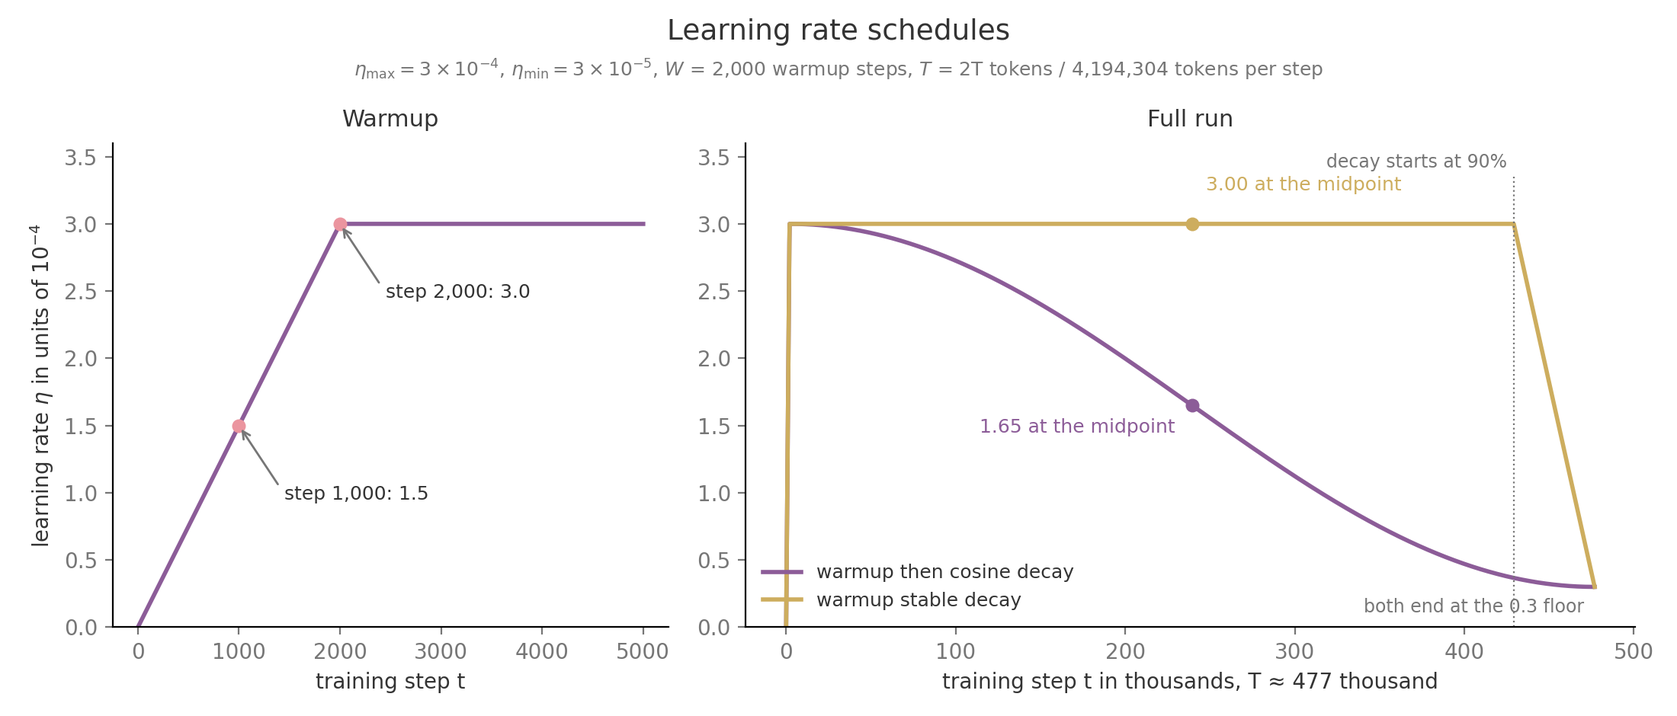
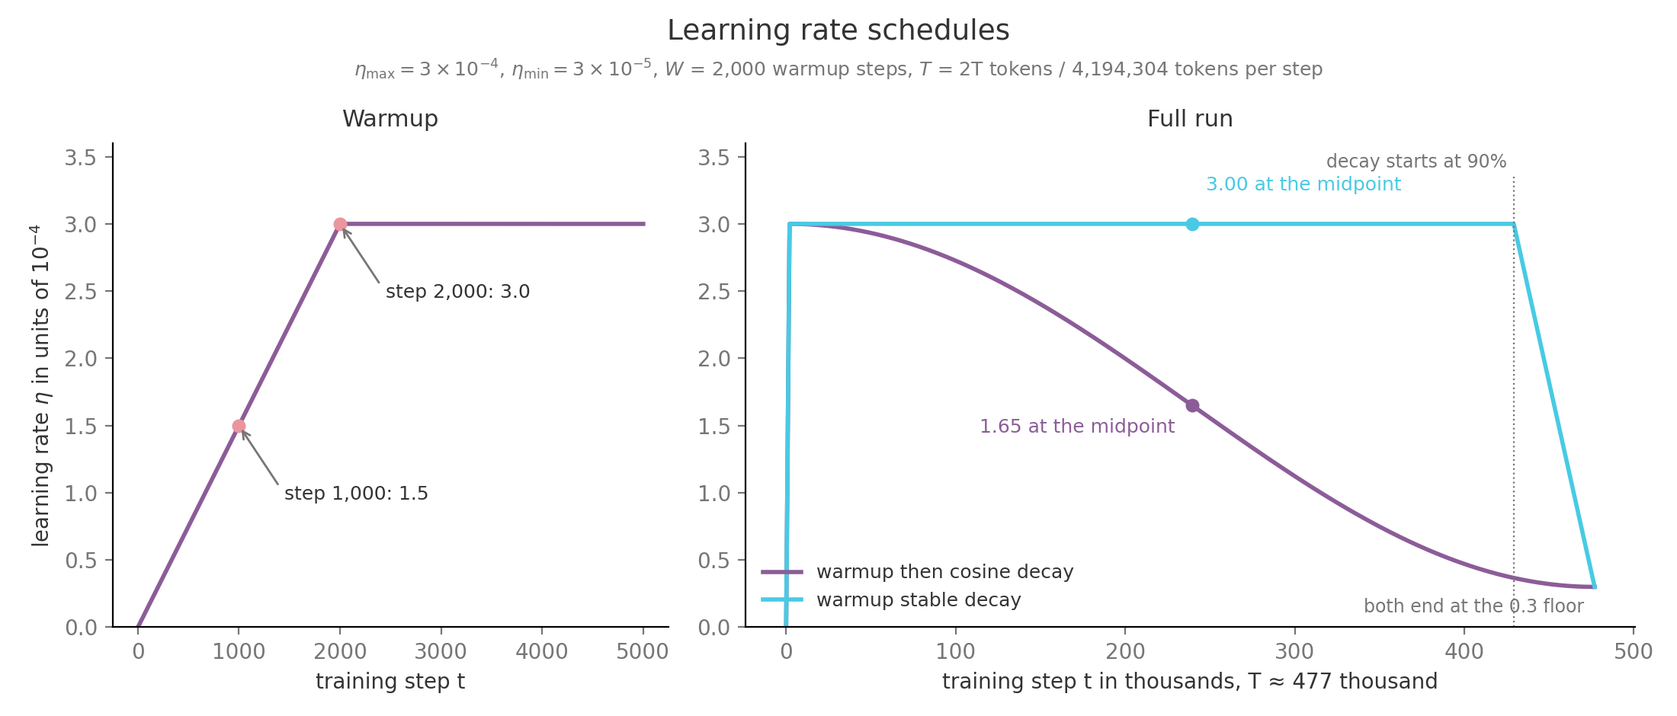
Refresh LLM Fundamentals openings, step notes and figure colors
- Rewrite chapter openings and roadmaps so they read naturally, without
  re-defining concepts from earlier chapters.
- Move paragraphs that explain a step-by-step example inside its card,
  and drop the step count from card headers.
- Replace the gold figure color with #48cae4 and recolor the decoder
  architecture diagram.
- Rename "Smoothing on a toy corpus" to "Smoothing" and remove the tie
  rule comment from the BPE algorithm.
- Update the landing slogan.

Changed region(s): [[0.4636, 0.3085, 0.9273, 0.3394], [0.7109, 0.2468, 0.8345, 0.2777], [0.4636, 0.833, 0.4945, 0.8638]]

diff --git a/src/styles/custom.css b/src/styles/custom.css
@@ -1228,3 +1228,8 @@ html .cm-scrolling {
     background: var(--sl-color-gray-4);
   }
 }
+
+/* Series overview: keep chapter names on one line in the Topics table. */
+:is(h2#topics, .sl-heading-wrapper:has(#topics)) + table td:first-child {
+  white-space: nowrap;
+}

diff --git a/src/content/docs/tutorials/llm-fundamentals/tokenization-and-embeddings.md b/src/content/docs/tutorials/llm-fundamentals/tokenization-and-embeddings.md
@@ -1,6 +1,6 @@
 ---
 title: "Tokenization"
-description: "The choice between characters, words, and subwords, and byte pair encoding run merge by merge alongside WordPiece and Unigram."
+description: "How byte pair encoding cuts text into tokens, and how each token becomes an embedding vector."
 sidebar:
   order: 2
   label: "Tokenization"
@@ -39,7 +39,7 @@ Training a BPE tokenizer starts with every word split into single characters. It
 
 Written as a procedure, BPE has two parts. Training reads a corpus once and learns the merge list. **Encoding**, turning new text into tokens with a finished tokenizer, uses that fixed list to turn any new text into token ids. Algorithm 1 is the training part. Its **base symbols** are the pieces every word starts as: characters in the example below, bytes in real tokenizers. A pair count adds up how often two symbols sit side by side, and a word that appears five times in the corpus counts five times.
 
-<figure class="cm-algo not-content"><figcaption class="cm-algo-head"><span class="cm-algo-tag">Algorithm 1</span><span class="cm-algo-name">BPE training</span></figcaption><div class="cm-algo-io"><div class="cm-algo-io-row"><span class="cm-algo-io-label">Input</span><span class="cm-algo-io-body"><span class="katex"><span class="katex-html" aria-hidden="true"><span class="base"><span class="strut" style="height:0.8889em;vertical-align:-0.1944em;"></span><span class="mord text"><span class="mord">a training corpus and a target vocabulary size</span></span></span></span></span></span></div><div class="cm-algo-io-row"><span class="cm-algo-io-label">Output</span><span class="cm-algo-io-body"><span class="katex"><span class="katex-html" aria-hidden="true"><span class="base"><span class="strut" style="height:0.8889em;vertical-align:-0.1944em;"></span><span class="mord text"><span class="mord">the base symbols and the merge list</span></span></span></span></span></span></div></div><ol class="cm-algo-lines"><li style="--indent:0"><span class="cm-algo-ln">1</span><span class="cm-algo-code"><span class="katex"><span class="katex-html" aria-hidden="true"><span class="base"><span class="strut" style="height:0.8889em;vertical-align:-0.1944em;"></span><span class="mord text"><span class="mord">split the corpus into words and count how often each word appears</span></span></span></span></span></span></li><li style="--indent:0"><span class="cm-algo-ln">2</span><span class="cm-algo-code"><span class="katex"><span class="katex-html" aria-hidden="true"><span class="base"><span class="strut" style="height:0.8889em;vertical-align:-0.1944em;"></span><span class="mord text"><span class="mord">break every word into base symbols, which form the starting vocabulary</span></span></span></span></span></span></li><li style="--indent:0"><span class="cm-algo-ln">3</span><span class="cm-algo-code"><span class="katex"><span class="katex-html" aria-hidden="true"><span class="base"><span class="strut" style="height:0.8889em;vertical-align:-0.1944em;"></span><span class="mord text"><span class="mord textbf">while </span></span><span class="mord text"><span class="mord">the vocabulary is smaller than the target size</span></span><span class="mord text"><span class="mord textbf"> do</span></span></span></span></span></span></li><li style="--indent:1"><span class="cm-algo-ln">4</span><span class="cm-algo-code"><span class="katex"><span class="katex-html" aria-hidden="true"><span class="base"><span class="strut" style="height:0.8889em;vertical-align:-0.1944em;"></span><span class="mord text"><span class="mord">count every pair of neighboring symbols in all the words</span></span></span></span></span></span></li><li style="--indent:1"><span class="cm-algo-ln">5</span><span class="cm-algo-code"><span class="katex"><span class="katex-html" aria-hidden="true"><span class="base"><span class="strut" style="height:0.8889em;vertical-align:-0.1944em;"></span><span class="mord text"><span class="mord textbf">if </span></span><span class="mord text"><span class="mord">no pairs are left</span></span><span class="mord text"><span class="mord textbf"> then stop</span></span></span></span></span></span></li><li style="--indent:1"><span class="cm-algo-ln">6</span><span class="cm-algo-code"><span class="katex"><span class="katex-html" aria-hidden="true"><span class="base"><span class="strut" style="height:0.8889em;vertical-align:-0.1944em;"></span><span class="mord text"><span class="mord">pick the pair with the highest count</span></span></span></span></span></span><span class="cm-algo-comment">fixed rule for ties</span></li><li style="--indent:1"><span class="cm-algo-ln">7</span><span class="cm-algo-code"><span class="katex"><span class="katex-html" aria-hidden="true"><span class="base"><span class="strut" style="height:0.8889em;vertical-align:-0.1944em;"></span><span class="mord text"><span class="mord">add the pair to the merge list and its joined symbol to the vocabulary</span></span></span></span></span></span></li><li style="--indent:1"><span class="cm-algo-ln">8</span><span class="cm-algo-code"><span class="katex"><span class="katex-html" aria-hidden="true"><span class="base"><span class="strut" style="height:0.8889em;vertical-align:-0.1944em;"></span><span class="mord text"><span class="mord">in every word, join that pair into one symbol wherever it appears, left to right</span></span></span></span></span></span></li><li style="--indent:0"><span class="cm-algo-ln">9</span><span class="cm-algo-code"><span class="katex"><span class="katex-html" aria-hidden="true"><span class="base"><span class="strut" style="height:0.8889em;vertical-align:-0.1944em;"></span><span class="mord text"><span class="mord textbf">return </span></span><span class="mord text"><span class="mord">the base symbols and the merge list</span></span></span></span></span></span></li></ol></figure>
+<figure class="cm-algo not-content"><figcaption class="cm-algo-head"><span class="cm-algo-tag">Algorithm 1</span><span class="cm-algo-name">BPE training</span></figcaption><div class="cm-algo-io"><div class="cm-algo-io-row"><span class="cm-algo-io-label">Input</span><span class="cm-algo-io-body"><span class="katex"><span class="katex-html" aria-hidden="true"><span class="base"><span class="strut" style="height:0.8889em;vertical-align:-0.1944em;"></span><span class="mord text"><span class="mord">a training corpus and a target vocabulary size</span></span></span></span></span></span></div><div class="cm-algo-io-row"><span class="cm-algo-io-label">Output</span><span class="cm-algo-io-body"><span class="katex"><span class="katex-html" aria-hidden="true"><span class="base"><span class="strut" style="height:0.8889em;vertical-align:-0.1944em;"></span><span class="mord text"><span class="mord">the base symbols and the merge list</span></span></span></span></span></span></div></div><ol class="cm-algo-lines"><li style="--indent:0"><span class="cm-algo-ln">1</span><span class="cm-algo-code"><span class="katex"><span class="katex-html" aria-hidden="true"><span class="base"><span class="strut" style="height:0.8889em;vertical-align:-0.1944em;"></span><span class="mord text"><span class="mord">split the corpus into words and count how often each word appears</span></span></span></span></span></span></li><li style="--indent:0"><span class="cm-algo-ln">2</span><span class="cm-algo-code"><span class="katex"><span class="katex-html" aria-hidden="true"><span class="base"><span class="strut" style="height:0.8889em;vertical-align:-0.1944em;"></span><span class="mord text"><span class="mord">break every word into base symbols, which form the starting vocabulary</span></span></span></span></span></span></li><li style="--indent:0"><span class="cm-algo-ln">3</span><span class="cm-algo-code"><span class="katex"><span class="katex-html" aria-hidden="true"><span class="base"><span class="strut" style="height:0.8889em;vertical-align:-0.1944em;"></span><span class="mord text"><span class="mord textbf">while </span></span><span class="mord text"><span class="mord">the vocabulary is smaller than the target size</span></span><span class="mord text"><span class="mord textbf"> do</span></span></span></span></span></span></li><li style="--indent:1"><span class="cm-algo-ln">4</span><span class="cm-algo-code"><span class="katex"><span class="katex-html" aria-hidden="true"><span class="base"><span class="strut" style="height:0.8889em;vertical-align:-0.1944em;"></span><span class="mord text"><span class="mord">count every pair of neighboring symbols in all the words</span></span></span></span></span></span></li><li style="--indent:1"><span class="cm-algo-ln">5</span><span class="cm-algo-code"><span class="katex"><span class="katex-html" aria-hidden="true"><span class="base"><span class="strut" style="height:0.8889em;vertical-align:-0.1944em;"></span><span class="mord text"><span class="mord textbf">if </span></span><span class="mord text"><span class="mord">no pairs are left</span></span><span class="mord text"><span class="mord textbf"> then stop</span></span></span></span></span></span></li><li style="--indent:1"><span class="cm-algo-ln">6</span><span class="cm-algo-code"><span class="katex"><span class="katex-html" aria-hidden="true"><span class="base"><span class="strut" style="height:0.8889em;vertical-align:-0.1944em;"></span><span class="mord text"><span class="mord">pick the pair with the highest count</span></span></span></span></span></span></li><li style="--indent:1"><span class="cm-algo-ln">7</span><span class="cm-algo-code"><span class="katex"><span class="katex-html" aria-hidden="true"><span class="base"><span class="strut" style="height:0.8889em;vertical-align:-0.1944em;"></span><span class="mord text"><span class="mord">add the pair to the merge list and its joined symbol to the vocabulary</span></span></span></span></span></span></li><li style="--indent:1"><span class="cm-algo-ln">8</span><span class="cm-algo-code"><span class="katex"><span class="katex-html" aria-hidden="true"><span class="base"><span class="strut" style="height:0.8889em;vertical-align:-0.1944em;"></span><span class="mord text"><span class="mord">in every word, join that pair into one symbol wherever it appears, left to right</span></span></span></span></span></span></li><li style="--indent:0"><span class="cm-algo-ln">9</span><span class="cm-algo-code"><span class="katex"><span class="katex-html" aria-hidden="true"><span class="base"><span class="strut" style="height:0.8889em;vertical-align:-0.1944em;"></span><span class="mord text"><span class="mord textbf">return </span></span><span class="mord text"><span class="mord">the base symbols and the merge list</span></span></span></span></span></span></li></ol></figure>
 
 Each line of Algorithm 1 is easiest to follow on a corpus of four words with counts low ×5, lower ×2, lowest ×3 and newest ×6, with a target vocabulary size of 15. Lines 1 and 2 split every word into characters, which gives the 8 base symbols l, o, w, e, r, s, t and n. When two pairs tie at line 6, the rule here is to take the pair met first when reading the words in that listed order. Each row of the table is one pass through lines 4 to 8. The second column lists the four most frequent pairs from line 4, and the number after each pair is its count: how many times the two symbols sit side by side across the corpus, with each word counted as often as it appears. The first pair in each row is the one line 6 picks in that round.
 
@@ -53,7 +53,7 @@ Each line of Algorithm 1 is easiest to follow on a corpus of four words with cou
 | 6 | <span class="cm-pc"><span class="cm-pair is-top"><span class="cm-tok">ne</span><span class="cm-tok">west</span></span><span class="cm-count">6</span></span> <span class="cm-pc"><span class="cm-pair"><span class="cm-tok">lo</span><span class="cm-tok">w</span></span><span class="cm-count">5</span></span> <span class="cm-pc"><span class="cm-pair"><span class="cm-tok">lo</span><span class="cm-tok">west</span></span><span class="cm-count">3</span></span> <span class="cm-pc"><span class="cm-pair"><span class="cm-tok">lo</span><span class="cm-tok">we</span></span><span class="cm-count">2</span></span> | <span class="cm-merge"><span class="cm-tok">ne</span><span class="cm-op">+</span><span class="cm-tok">west</span><span class="cm-op">→</span><span class="cm-tok is-new">newest</span></span> | <span class="cm-words"><span class="cm-word"><span class="cm-tok">lo</span><span class="cm-tok">w</span></span><span class="cm-word"><span class="cm-tok">lo</span><span class="cm-tok">we</span><span class="cm-tok">r</span></span><span class="cm-word"><span class="cm-tok">lo</span><span class="cm-tok">west</span></span><span class="cm-word"><span class="cm-tok">newest</span></span></span> | 14 |
 | 7 | <span class="cm-pc"><span class="cm-pair is-top"><span class="cm-tok">lo</span><span class="cm-tok">w</span></span><span class="cm-count">5</span></span> <span class="cm-pc"><span class="cm-pair"><span class="cm-tok">lo</span><span class="cm-tok">west</span></span><span class="cm-count">3</span></span> <span class="cm-pc"><span class="cm-pair"><span class="cm-tok">lo</span><span class="cm-tok">we</span></span><span class="cm-count">2</span></span> <span class="cm-pc"><span class="cm-pair"><span class="cm-tok">we</span><span class="cm-tok">r</span></span><span class="cm-count">2</span></span> | <span class="cm-merge"><span class="cm-tok">lo</span><span class="cm-op">+</span><span class="cm-tok">w</span><span class="cm-op">→</span><span class="cm-tok is-new">low</span></span> | <span class="cm-words"><span class="cm-word"><span class="cm-tok">low</span></span><span class="cm-word"><span class="cm-tok">lo</span><span class="cm-tok">we</span><span class="cm-tok">r</span></span><span class="cm-word"><span class="cm-tok">lo</span><span class="cm-tok">west</span></span><span class="cm-word"><span class="cm-tok">newest</span></span></span> | 15 |
 
-Round 1 counts w e as $2 + 3 + 6 = 11$, once each from lower, lowest and newest, which beats l o and o w at 10. Round 2 shows why line 4 recounts after every merge. The pair o w counted 10 in round 1 but only 5 in round 2, because merge 1 used up the w inside lower and lowest. Rounds 3 and 5 are ties that line 6 settles by order, we s over s t at 9 and n e over e west at 6. After round 7 the vocabulary has 15 symbols, so line 3 stops the loop and the merge list holds seven pairs.
+Round 1 counts w e as $2 + 3 + 6 = 11$, once each from lower, lowest and newest, which beats l o and o w at 10. Round 2 shows why line 4 recounts after every merge. The pair o w counted 10 in round 1 but only 5 in round 2, because merge 1 used up the w inside lower and lowest. Rounds 3 and 5 are ties, broken here by a fixed order: we s over s t at 9, and n e over e west at 6. After round 7 the vocabulary has 15 symbols, so line 3 stops the loop and the merge list holds seven pairs.
 
 Encoding needs no counts at all, only the merge list. In Algorithm 2, $x$ is the new text to tokenize.
 

diff --git a/src/content/docs/tutorials/llm-fundamentals/index.md b/src/content/docs/tutorials/llm-fundamentals/index.md
@@ -9,42 +9,30 @@ lastUpdated: 2026-11-13
 
 Large language models went from research projects to everyday tools in a few years, and a lot of what gets said about them is guesswork. Why does a model that tops a benchmark disappoint on your own data? Why does each word of an answer cost more to produce than each word of the prompt? Why does an assistant sometimes agree with you when you are wrong? None of these answers is a secret. They follow from a small number of mechanisms, and once you can see those mechanisms, choices that look arbitrary in a product decision or a research paper start to make sense.
 
-This tutorial is for anyone who wants to understand how these models work, from newcomers to the field to engineers and researchers who already build with them. For newcomers, the chapters build on each other in order and cover the key ideas behind large language models step by step, from how text becomes tokens to how a finished model is trained, served and evaluated. Each idea starts with a small example before any math appears, so every step can be followed and checked by hand. For engineers and researchers who know the basics, the series works as a refresher: every chapter and section is one click away in the sidebar, and the deep dives hold the extra detail.
+This tutorial is for anyone who wants to understand how these models work, from readers new to large language models to engineers and researchers who already build with them. For newcomers, the chapters build on each other in order and cover the key ideas behind large language models step by step, from how text becomes tokens to how a finished model is trained, served and evaluated. Each idea starts with a small example before any math appears, so every step can be followed and checked by hand. For engineers and researchers who know the basics, the series works as a refresher: every chapter and section is one click away in the sidebar, and the deep dives hold the extra detail.
+
+## Reading order and prerequisites
+
+The chapters follow the order in which a model is built and then used. Language modeling sets the goal of predicting the next token, tokenization decides what a token is, and attention and the transformer block assemble the network that makes the prediction. Those four form the foundation, and the rest of the series uses their terms without defining them again. Pretraining and post-training then turn that network into an assistant, and inference, applications and evaluation cover what happens once the model is finished. These later topics lean on the foundation more than on each other. Pretraining and inference both turn the model's parameter count into time and memory, while applications and evaluation draw on everything before them.
+
+The series builds on the basics of machine learning rather than teaching them. Every example is still worked by hand rather than in code, so no programming is needed. The chapters recall a term from these subjects briefly where they first use it, but they do not teach the subjects themselves:
+
+- **Machine learning basics.** Training adjusts a model's parameters to lower a loss on training data, usually by gradient descent, and the model is judged on data it has not seen. Overfitting, train and test splits, and the learning rate come up throughout.
+- **Neural networks.** A layer multiplies its input by a weight matrix and applies a nonlinearity, and backpropagation finds the gradient of the loss for every weight.
+- **Probability and statistics.** Conditional probability, distributions, expected value, variance and likelihood. Language modeling rests on the chain rule of probability and on maximum likelihood.
+- **Linear algebra.** Vectors, matrices, dot products and matrix multiplication, which make up nearly every computation inside a transformer.
+- **Calculus.** Derivatives and the chain rule, enough to follow how a gradient flows back through a layer.
 
 ## Topics
 
-### [Language Modeling](/tutorials/llm-fundamentals/language-modeling-and-next-token-prediction/)
-
-How the chain rule turns a sentence into a product of next-token probabilities, why counting word sequences breaks down, and how a neural network shares statistical strength across contexts. Softmax, cross-entropy, and perplexity are computed by hand, bits per byte makes models with different tokenizers comparable, and maximum likelihood turns out to match the data distribution. The chapter closes with teacher forcing and the mismatch between training and generation.
-
-### [Tokenization](/tutorials/llm-fundamentals/tokenization-and-embeddings/)
-
-The choice between characters, words, and subwords, and byte pair encoding run merge by merge alongside WordPiece and Unigram. Byte fallback, vocabulary size, fertility across languages, and the special tokens and chat templates that frame every conversation come next. The second half covers the embedding lookup that turns tokens into vectors, similarity, tied input and output tables, and the failures tokenization causes in counting, spelling, and arithmetic.
-
-### [Attention](/tutorials/llm-fundamentals/attention-and-positional-information/)
-
-Attention computed from queries, keys, and values on a three-token example, with the square-root scaling, the causal mask, and the split of the width into heads. Attention by itself ignores order, so sinusoidal positions, rotary position embedding, and ALiBi put it back, and the chapter shows what breaks beyond the trained context. It closes with the quadratic cost and the key-value cache, which Efficient Attention Mechanisms develops in depth.
-
-### [Transformer Block](/tutorials/llm-fundamentals/the-transformer-block-and-model-anatomy/)
-
-The residual stream traced through normalization, attention, and the feed-forward network, with LayerNorm set against RMSNorm and pre-norm against post-norm. SwiGLU's width is derived, the decoder block assembled, and all 6.74 billion parameters of the reference model counted. The chapter then derives 2N forward and 6N training FLOPs per token, compares the encoder, decoder, and encoder-decoder families with their objectives, and separates total from active parameters in a mixture of experts.
-
-### [Pretraining](/tutorials/llm-fundamentals/pretraining-at-scale/)
-
-How a corpus is built with deduplication, filtering, and mixing, and how documents are packed into training windows. AdamW goes step by step, followed by the 16 bytes of training state per parameter and the choice of learning-rate schedule and bf16 precision. Loss spikes, a run's cost from $C\approx6ND$, and why compute-optimal scaling recommends a larger model than the ones people actually deploy come next, and the chapter closes with mid-training, the short final stage that switches to a curated mixture and longer contexts.
-
-### [Post-Training](/tutorials/llm-fundamentals/post-training-from-base-model-to-assistant/)
-
-What a base model does, and how supervised fine-tuning changes it with loss only on response tokens. A reward model learns from pairwise preferences, a KL penalty keeps reinforcement learning in check, and direct preference optimization offers a simpler route. Verifiable rewards with GRPO, reasoning models and test-time compute, distillation, reward hacking and sycophancy follow, along with how the failure you observe points to a recipe.
-
-### [Inference](/tutorials/llm-fundamentals/inference-and-decoding/)
-
-Prompt processing and token generation run at very different speeds, and the chapter sizes the key-value cache to show why generation is limited by memory bandwidth. Greedy and beam search sit beside temperature, top-k, top-p, and min-p sampling, with repetition control and grammar-constrained output on top. Continuous batching, paged caches, quantization, and speculative decoding finish the chapter, measured by time to first token and time per output token.
-
-### [LLM Applications](/tutorials/llm-fundamentals/using-llms-in-applications/)
-
-System prompts, in-context examples, and chain of thought steer a frozen model without touching its weights. Retrieval and vector search add knowledge, long contexts have limits worth knowing, and tools plus an agent loop extend what the model can do, with reliability that compounds at every step. LoRA and QLoRA adapt the weights cheaply, and the failure being fixed decides between prompting, retrieval, and fine-tuning.
-
-### [Evaluation and Safety](/tutorials/llm-fundamentals/evaluation-reliability-and-safety/)
-
-Loss, benchmark accuracy, and human preference measure different things, and the chapter covers an unbiased estimate of pass@k and how large an evaluation set must be to detect a given difference. Contamination checks and a trustworthy LLM judge come next, then where hallucination comes from, how calibration is measured, and how claims are checked against evidence. Jailbreaks and prompt injection, memorization and bias, interpretability basics, and the release gates that decide whether a model ships complete the picture.
+| Chapter | What it covers |
+|---|---|
+| [Language Modeling](/tutorials/llm-fundamentals/language-modeling-and-next-token-prediction/) | How a model predicts the next token, and how cross entropy, perplexity and bits per byte measure the prediction. |
+| [Tokenization](/tutorials/llm-fundamentals/tokenization-and-embeddings/) | How byte pair encoding cuts text into tokens, and how each token becomes an embedding vector. |
+| [Attention](/tutorials/llm-fundamentals/attention-and-positional-information/) | How queries, keys and values let tokens read each other, and how position information is added back. |
+| [Transformer Block](/tutorials/llm-fundamentals/the-transformer-block-and-model-anatomy/) | How normalization, attention and the feed-forward network stack into a full model, with its parameter and FLOP counts. |
+| [Pretraining](/tutorials/llm-fundamentals/pretraining-at-scale/) | How a data corpus, the AdamW optimizer and a compute budget produce a trained base model. |
+| [Post-Training](/tutorials/llm-fundamentals/post-training-from-base-model-to-assistant/) | How fine-tuning, preference learning and reinforcement learning turn a base model into an assistant. |
+| [Inference](/tutorials/llm-fundamentals/inference-and-decoding/) | How a model generates text, how sampling picks each token, and what makes serving fast and cheap. |
+| [LLM Applications](/tutorials/llm-fundamentals/using-llms-in-applications/) | How prompting, retrieval, tools and fine-tuning adapt a finished model to a task. |
+| [Evaluation and Safety](/tutorials/llm-fundamentals/evaluation-reliability-and-safety/) | How models are measured, and how hallucination, contamination and attacks are checked before release. |

diff --git a/src/content/docs/tutorials/llm-fundamentals/language-modeling-and-next-token-prediction.md b/src/content/docs/tutorials/llm-fundamentals/language-modeling-and-next-token-prediction.md
@@ -1,15 +1,15 @@
 ---
 title: "Language Modeling"
-description: "How the chain rule turns a sentence into a product of next-token probabilities, why counting word sequences breaks down, and how a neural network shares statistical strength across contexts."
+description: "How a model predicts the next token, and how cross entropy, perplexity and bits per byte measure the prediction."
 sidebar:
   order: 1
   label: "Language Modeling"
 lastUpdated: 2026-11-13
 ---
 
-Your phone's keyboard guesses the next word from the words already typed. A chatbot writing an essay does the same thing thousands of times in a row. Each guess is a set of odds over every word that could come next, and whichever word gets picked becomes part of the text that the next guess reads.
+When you ask a chatbot a question, it writes its reply one word at a time. At each step, it looks at all the text written so far, gives every word it knows a probability of coming next, and picks one. That word is added to the text, and the same step repeats until the reply is finished.
 
-The program behind both is a **language model**, which gives a probability to every possible continuation of a piece of text. It works in **tokens**, units of text that are usually a whole word or a piece of one, and it can only produce tokens from its **vocabulary**, a fixed list that holds 32,000 entries in the reference 7B model used across this series. Turning the text so far into one probability for each vocabulary entry is called **next token prediction**, and writing, scoring and training all reduce to it. Writing repeats the prediction and appends one chosen token each time. Scoring a sentence multiplies the probabilities the model gave to the tokens that really appeared, and training adjusts the model so those probabilities rise. The figure shows the three predictions behind the short sentence "the cat sat".
+The program that does this is a **language model**, which gives a probability to every possible continuation of a piece of text. It works in **tokens**, units of text that are usually a whole word or a piece of one, and it can only produce tokens from its **vocabulary**, a fixed list that holds 32,000 entries in the reference 7B model used across this series. Turning the text so far into one probability for each vocabulary entry is called **next token prediction**, and writing, scoring and training all reduce to it. Writing repeats the prediction and appends one chosen token each time. Scoring a sentence multiplies the probabilities the model gave to the tokens that really appeared, and training adjusts the model so those probabilities rise. The figure shows the three predictions behind the short sentence "the cat sat".
 
 ![Next token chain](/images/llm-fundamentals/15a-next-token-chain.png)
 
@@ -57,7 +57,7 @@ Here $c(x_{t-1}\, x_t)$ counts how often the pair occurs in the corpus and $c(x_
 
 On that text 76% of held-back three-word sequences never occur in the 1.7 million training words, and about eleven times more training text barely helps at four words and beyond. At the scale of the reference 7B model the arithmetic is starker. With $V = 32{,}000$ there are $32{,}000^3 \approx 3.3 \times 10^{13}$ possible trigrams, and a 2-trillion-token corpus contains at most $2 \times 10^{12}$ trigram occurrences, so at most 6.1% of possible trigrams could ever be seen even once. Possible 4-grams number about $10^{18}$.
 
-### Smoothing on a toy corpus
+### Smoothing
 
 **Smoothing** is any rule that moves a little probability from sequences that were seen to sequences that were not, so nothing gets exactly zero. **Add-one smoothing**, also called Laplace smoothing, pretends every possible pair occurred once more than it did, which gives $(c(x_{t-1}\, x_t) + 1)/(c(x_{t-1}) + V)$. **Backoff** keeps the observed counts but shaves a discount $\delta$ off each one, then hands the freed probability to unseen continuations in proportion to how common each token is on its own. The table works both after the context "dog" in the twelve-token corpus, where the toy vocabulary has $V = 6$ tokens, the context count is $c(\text{dog}) = 1$, and the discount is $\delta = 0.5$. On its own, "the" occurs 3 times, "cat" 2, "sat" 2, "dog" 1, "ran" 1, and the period 3, out of 12 tokens.
 

diff --git a/src/content/docs/tutorials/llm-fundamentals/evaluation-reliability-and-safety.md b/src/content/docs/tutorials/llm-fundamentals/evaluation-reliability-and-safety.md
@@ -1,6 +1,6 @@
 ---
 title: "Evaluation and Safety"
-description: "Loss, benchmark accuracy, and human preference measure different things, and the chapter covers an unbiased estimate of pass@k and how large an evaluation set must be to detect a given difference."
+description: "How models are measured, and how hallucination, contamination and attacks are checked before release."
 sidebar:
   order: 9
   label: "Evaluation and Safety"

diff --git a/src/content/docs/tutorials/llm-fundamentals/the-transformer-block-and-model-anatomy.md b/src/content/docs/tutorials/llm-fundamentals/the-transformer-block-and-model-anatomy.md
@@ -1,6 +1,6 @@
 ---
 title: "Transformer Block"
-description: "The residual stream traced through normalization, attention, and the feed-forward network, with LayerNorm set against RMSNorm and pre-norm against post-norm."
+description: "How normalization, attention and the feed-forward network stack into a full model, with its parameter and FLOP counts."
 sidebar:
   order: 4
   label: "Transformer Block"

diff --git a/src/content/docs/tutorials/llm-fundamentals/inference-and-decoding.md b/src/content/docs/tutorials/llm-fundamentals/inference-and-decoding.md
@@ -1,6 +1,6 @@
 ---
 title: "Inference"
-description: "Prompt processing and token generation run at very different speeds, and the chapter sizes the key-value cache to show why generation is limited by memory bandwidth."
+description: "How a model generates text, how sampling picks each token, and what makes serving fast and cheap."
 sidebar:
   order: 7
   label: "Inference"

diff --git a/src/content/docs/tutorials/llm-fundamentals/attention-and-positional-information.md b/src/content/docs/tutorials/llm-fundamentals/attention-and-positional-information.md
@@ -1,6 +1,6 @@
 ---
 title: "Attention"
-description: "Attention computed from queries, keys, and values on a three-token example, with the square-root scaling, the causal mask, and the split of the width into heads."
+description: "How queries, keys and values let tokens read each other, and how position information is added back."
 sidebar:
   order: 3
   label: "Attention"

diff --git a/src/content/docs/tutorials/llm-fundamentals/pretraining-at-scale.md b/src/content/docs/tutorials/llm-fundamentals/pretraining-at-scale.md
@@ -1,6 +1,6 @@
 ---
 title: "Pretraining"
-description: "How a corpus is built with deduplication, filtering, and mixing, and how documents are packed into training windows."
+description: "How a data corpus, the AdamW optimizer and a compute budget produce a trained base model."
 sidebar:
   order: 5
   label: "Pretraining"

diff --git a/src/content/docs/tutorials/llm-fundamentals/post-training-from-base-model-to-assistant.md b/src/content/docs/tutorials/llm-fundamentals/post-training-from-base-model-to-assistant.md
@@ -1,6 +1,6 @@
 ---
 title: "Post-Training"
-description: "What a base model does, and how supervised fine-tuning changes it with loss only on response tokens."
+description: "How fine-tuning, preference learning and reinforcement learning turn a base model into an assistant."
 sidebar:
   order: 6
   label: "Post-Training"

diff --git a/src/content/docs/tutorials/llm-fundamentals/using-llms-in-applications.md b/src/content/docs/tutorials/llm-fundamentals/using-llms-in-applications.md
@@ -1,6 +1,6 @@
 ---
 title: "LLM Applications"
-description: "System prompts, in-context examples, and chain of thought steer a frozen model without touching its weights."
+description: "How prompting, retrieval, tools and fine-tuning adapt a finished model to a task."
 sidebar:
   order: 8
   label: "LLM Applications"
